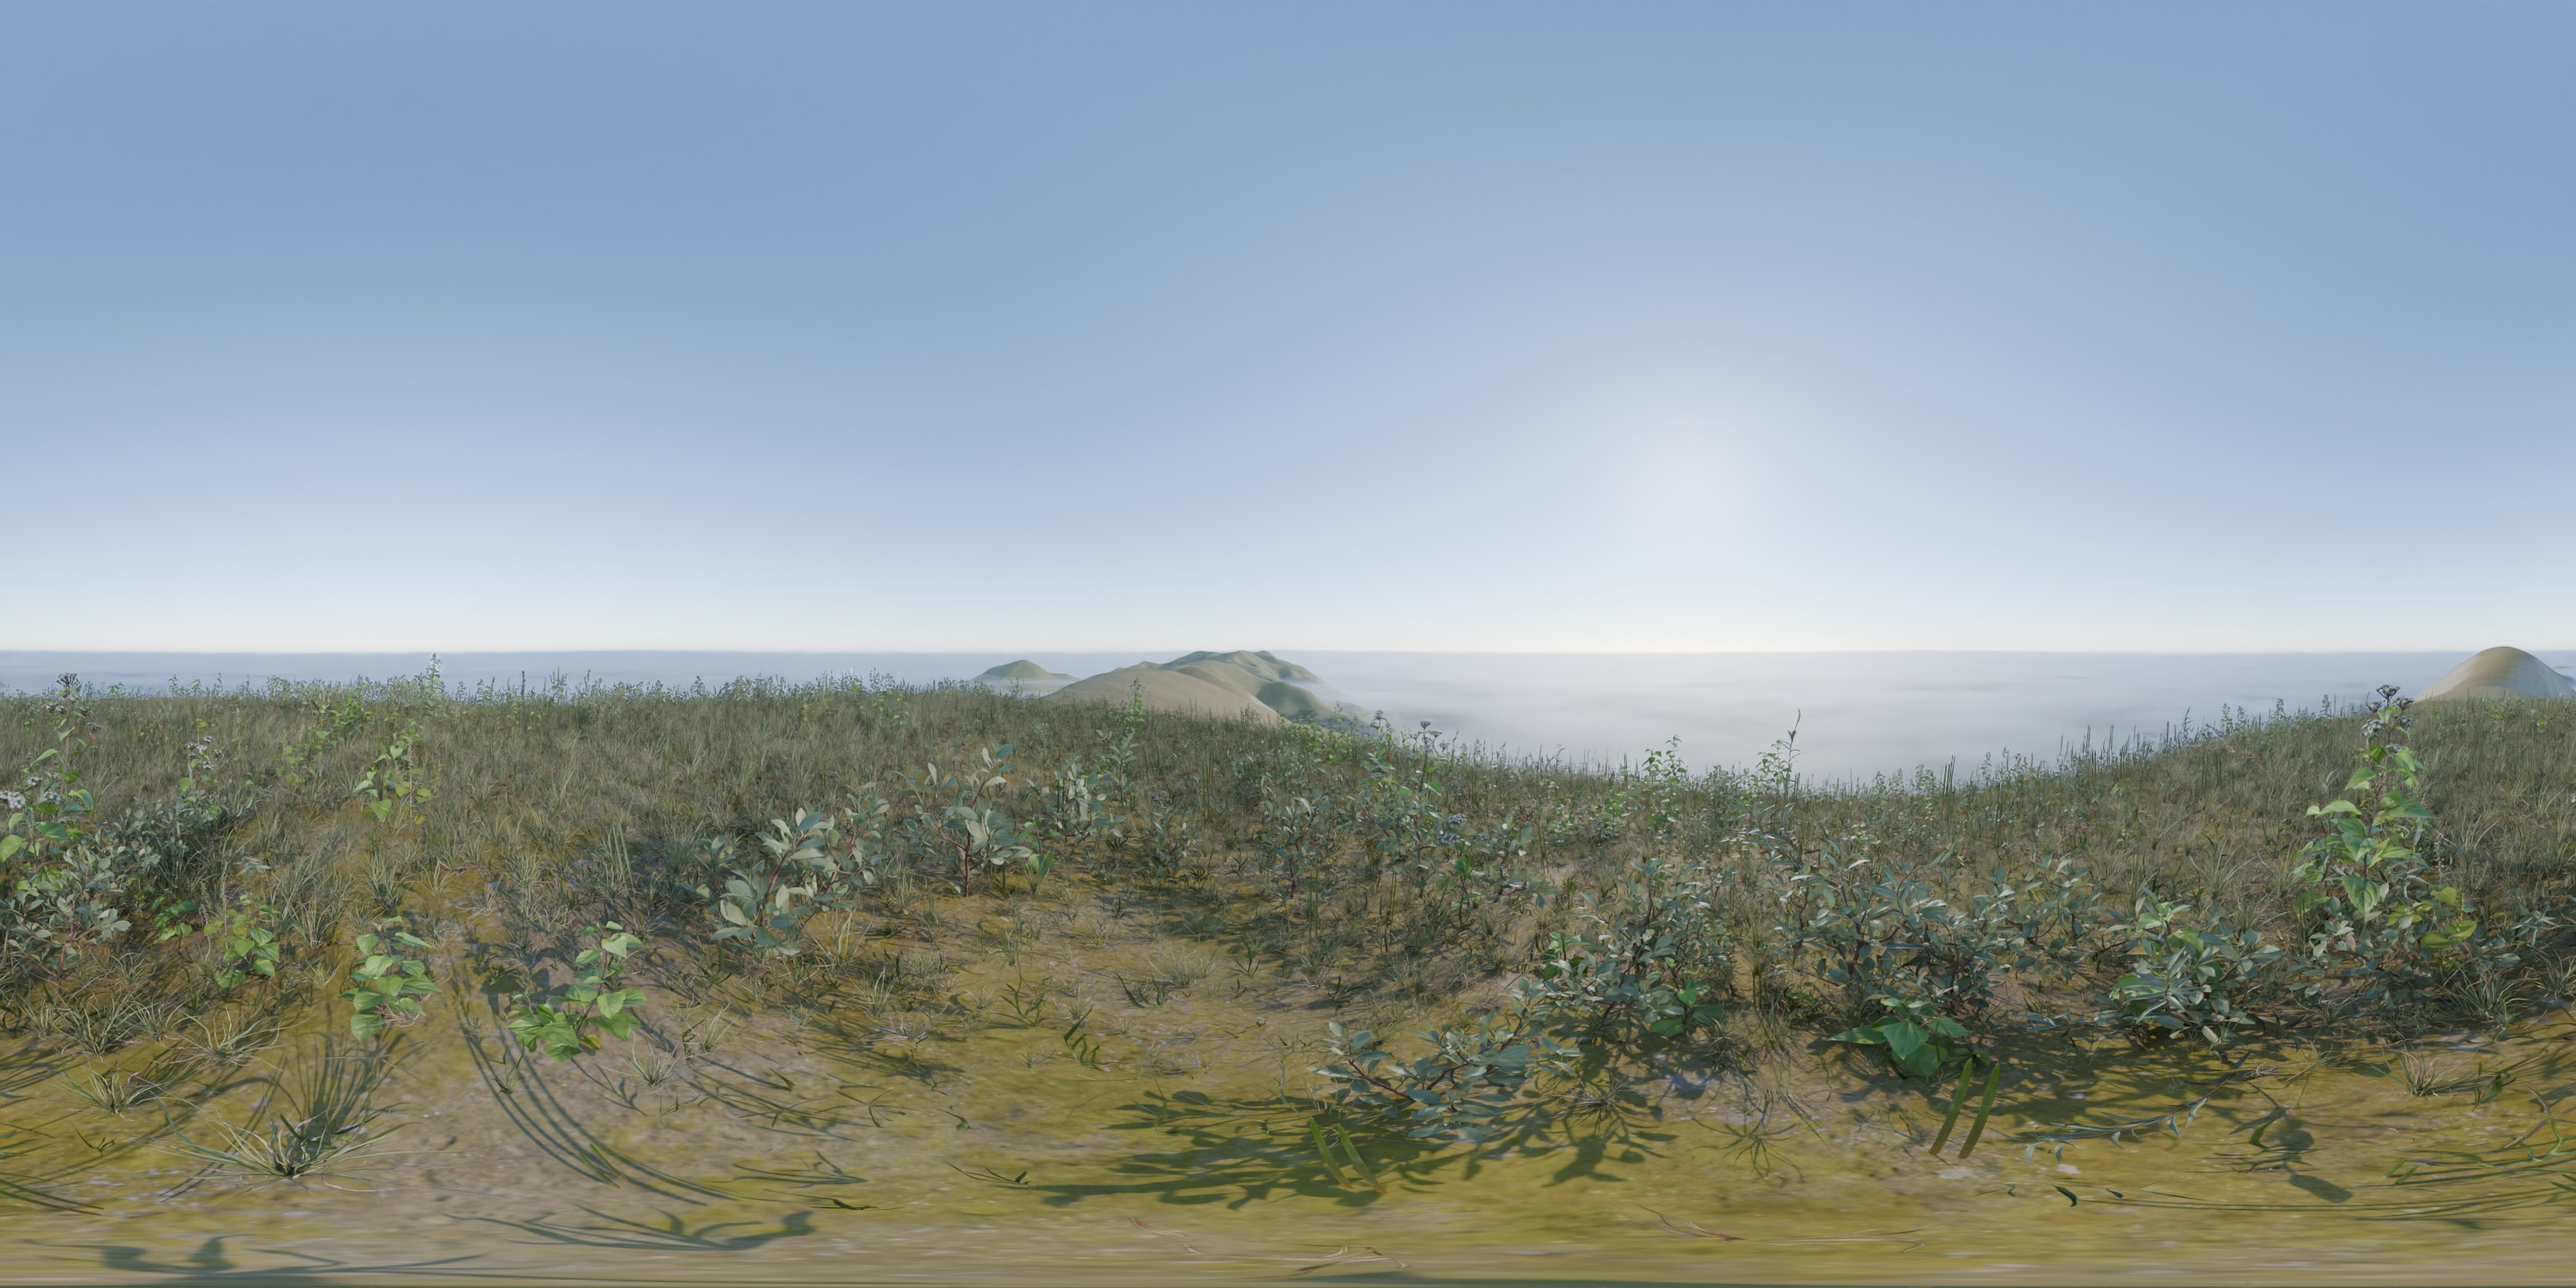
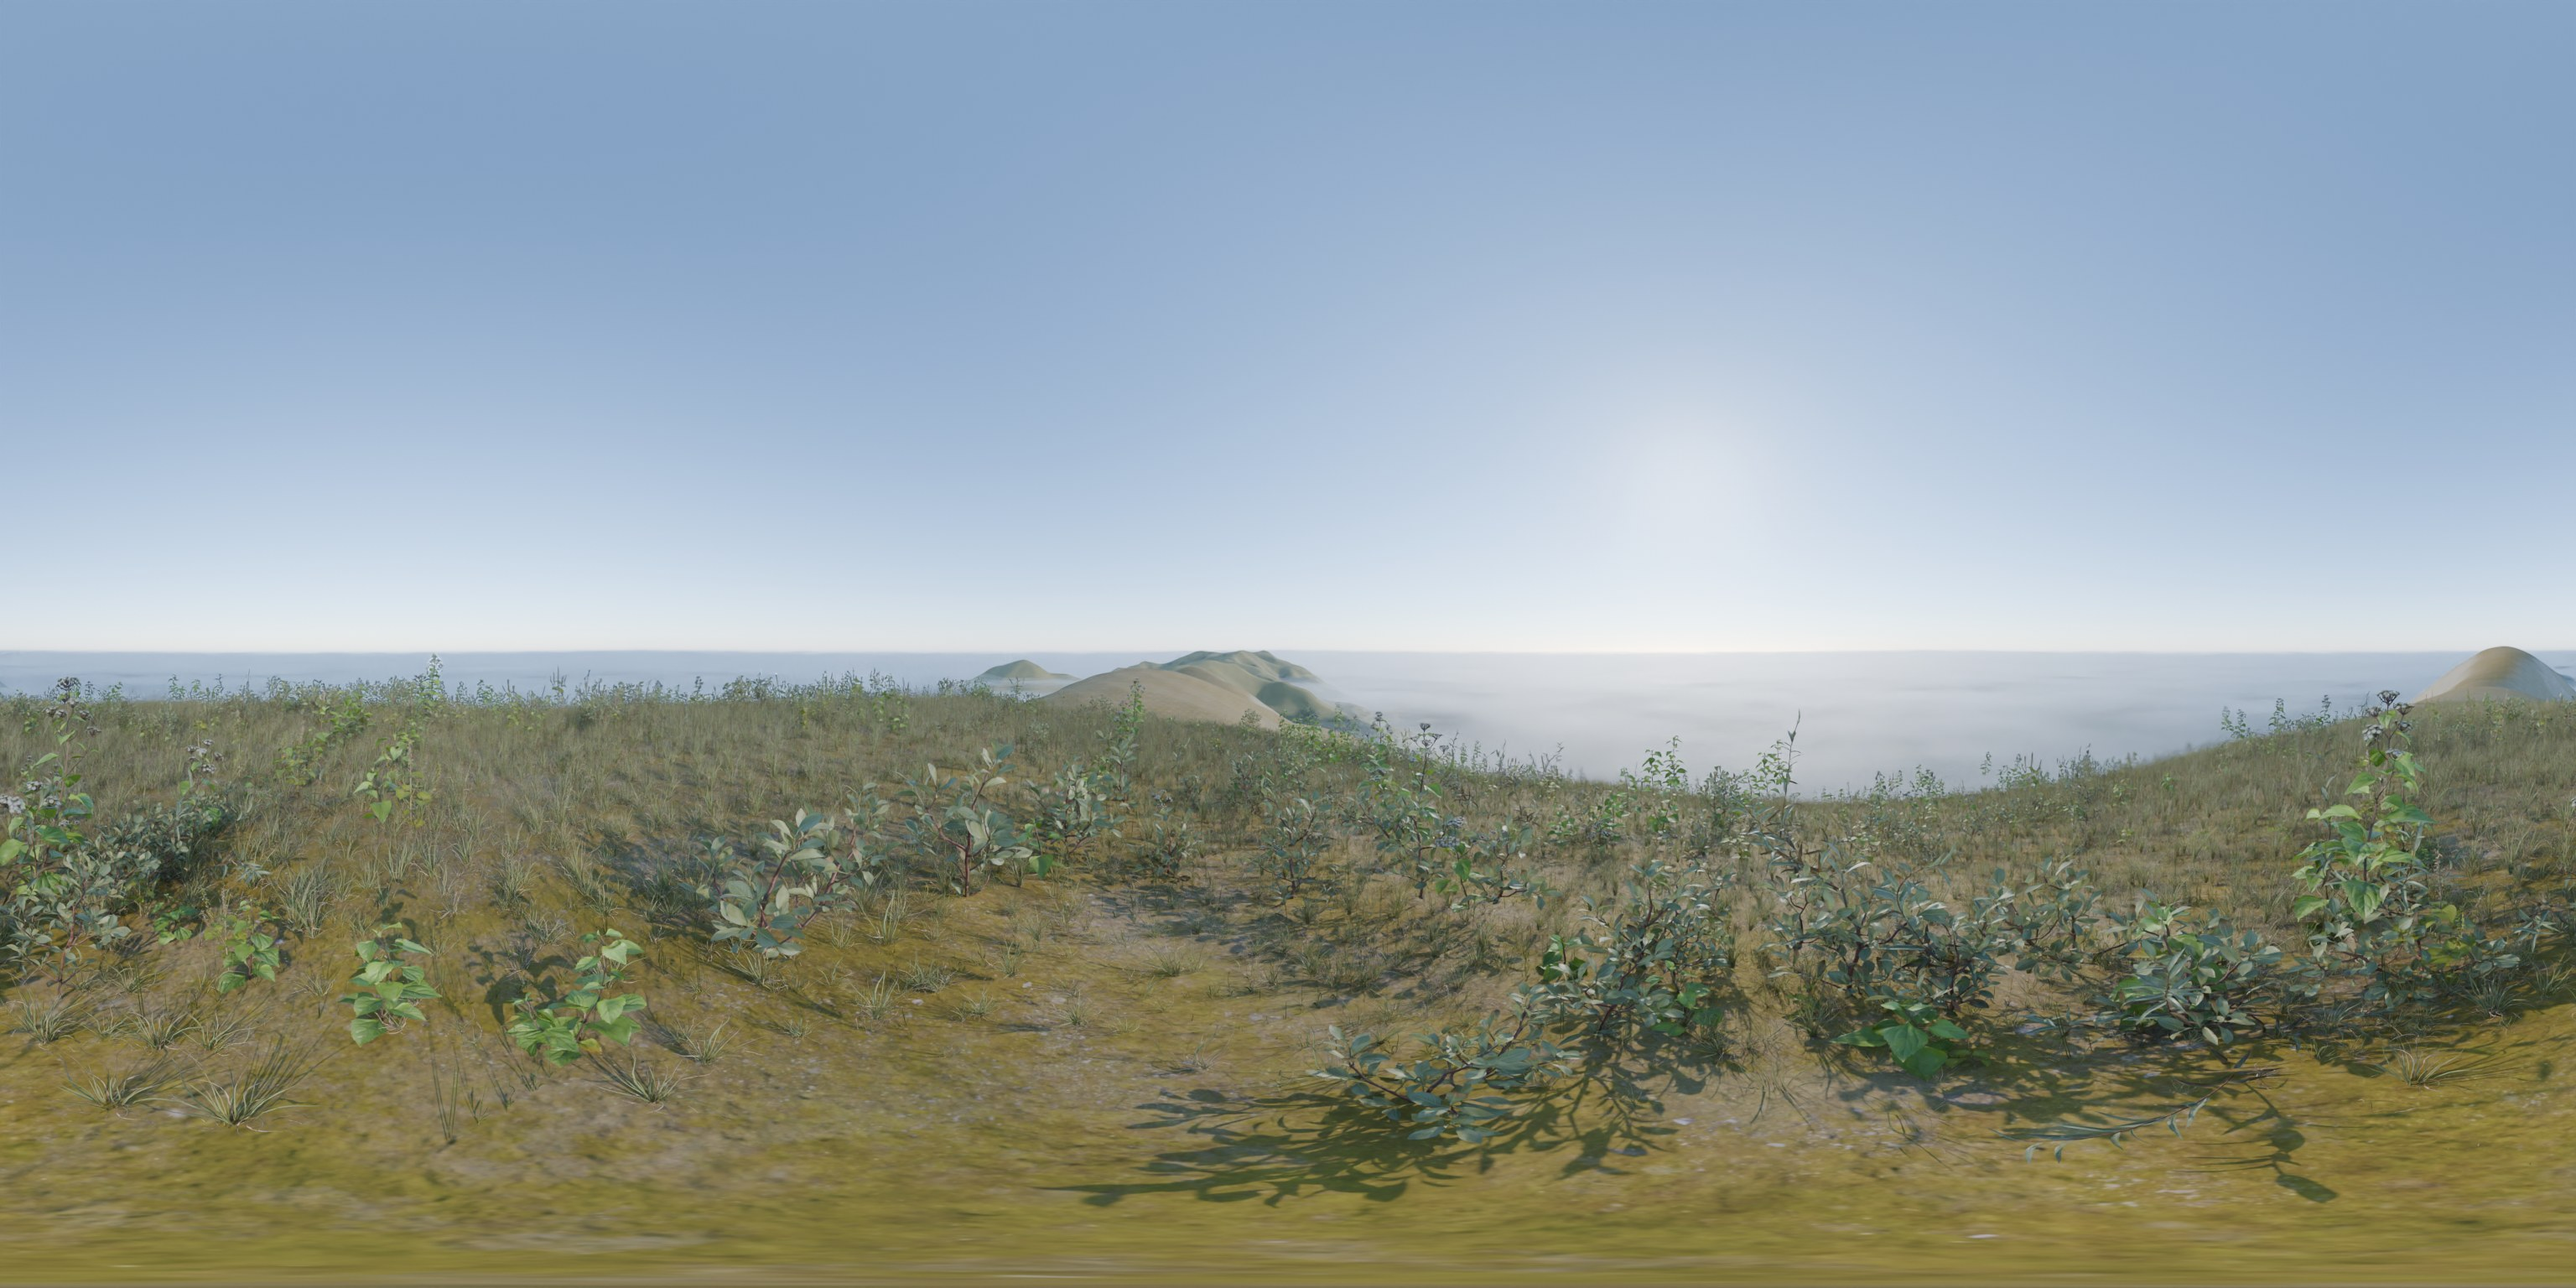
Summit 360° re-rendered (grass fix); viewer uses the large image above ~1000 px
Claude-Session: https://claude.ai/code/session_01JpNJH8Bnnhs2dX6KzHn537

Changed region(s): [[0.0, 0.5312, 1.0, 1.0]]

diff --git a/src/ui/pano.ts b/src/ui/pano.ts
@@ -65,7 +65,7 @@ export function openPano(entry: PanoEntry, base: string, lang: 'fr' | 'en', redu
 
     // lon = 0 looks at the image centre (the spot's walk direction); positive = to the right
     let lon = 0, lat = 0, fov = 70, dirty = true, closed = false;
-    const big = Math.max(innerWidth, innerHeight) * Math.min(devicePixelRatio || 1, 2) > 1600;
+    const big = Math.max(innerWidth, innerHeight) * Math.min(devicePixelRatio || 1, 2) > 1000; // phones get the 2k image
     new THREE.TextureLoader().load(`${base}${big ? entry.src.lg : entry.src.sm}`, (tex) => {
       if (closed) { tex.dispose(); return; }
       tex.colorSpace = THREE.SRGBColorSpace;
